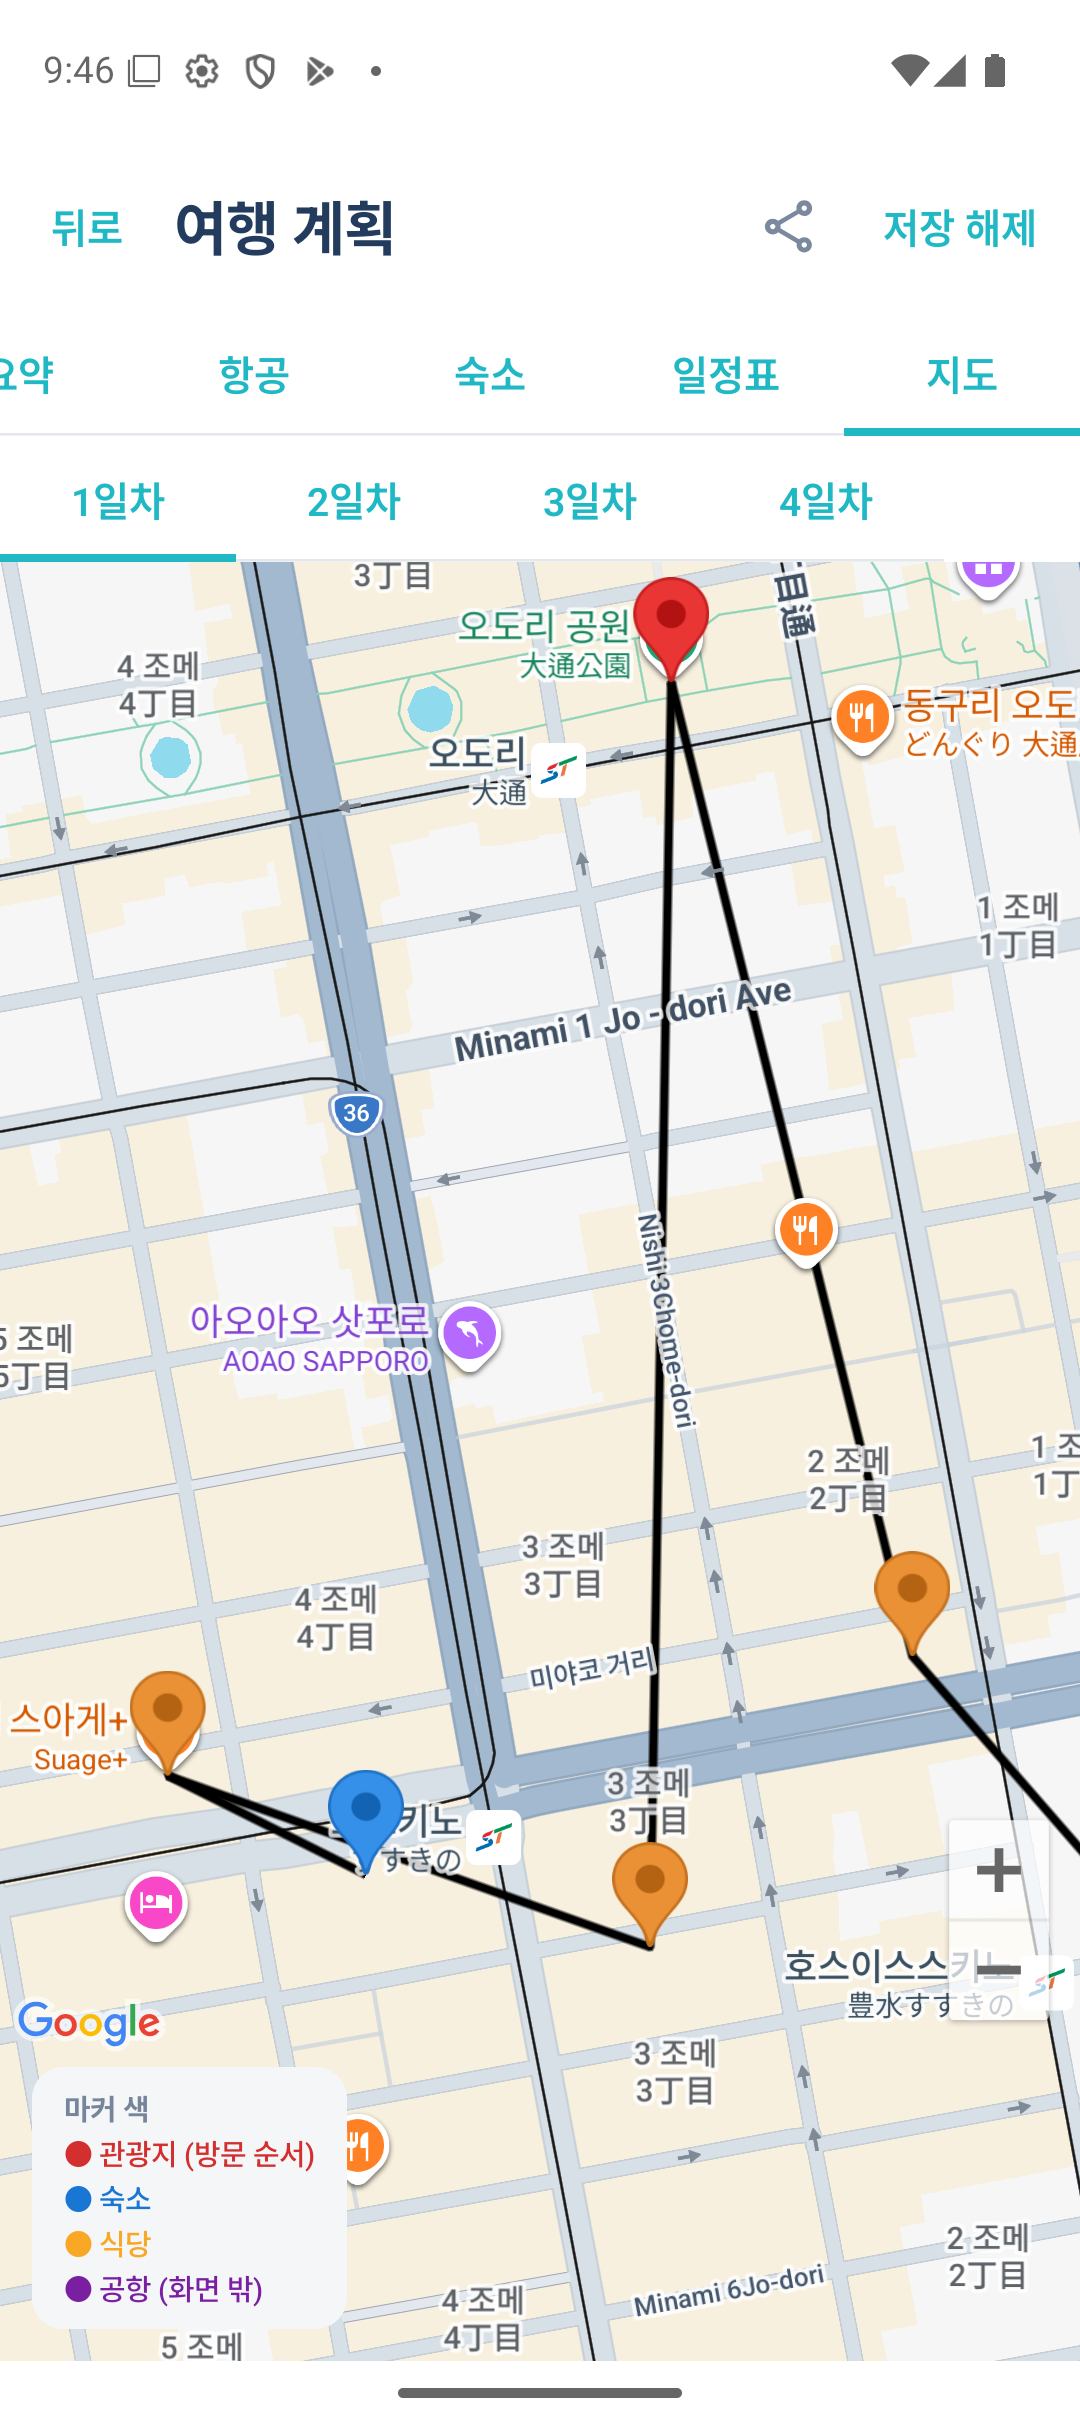
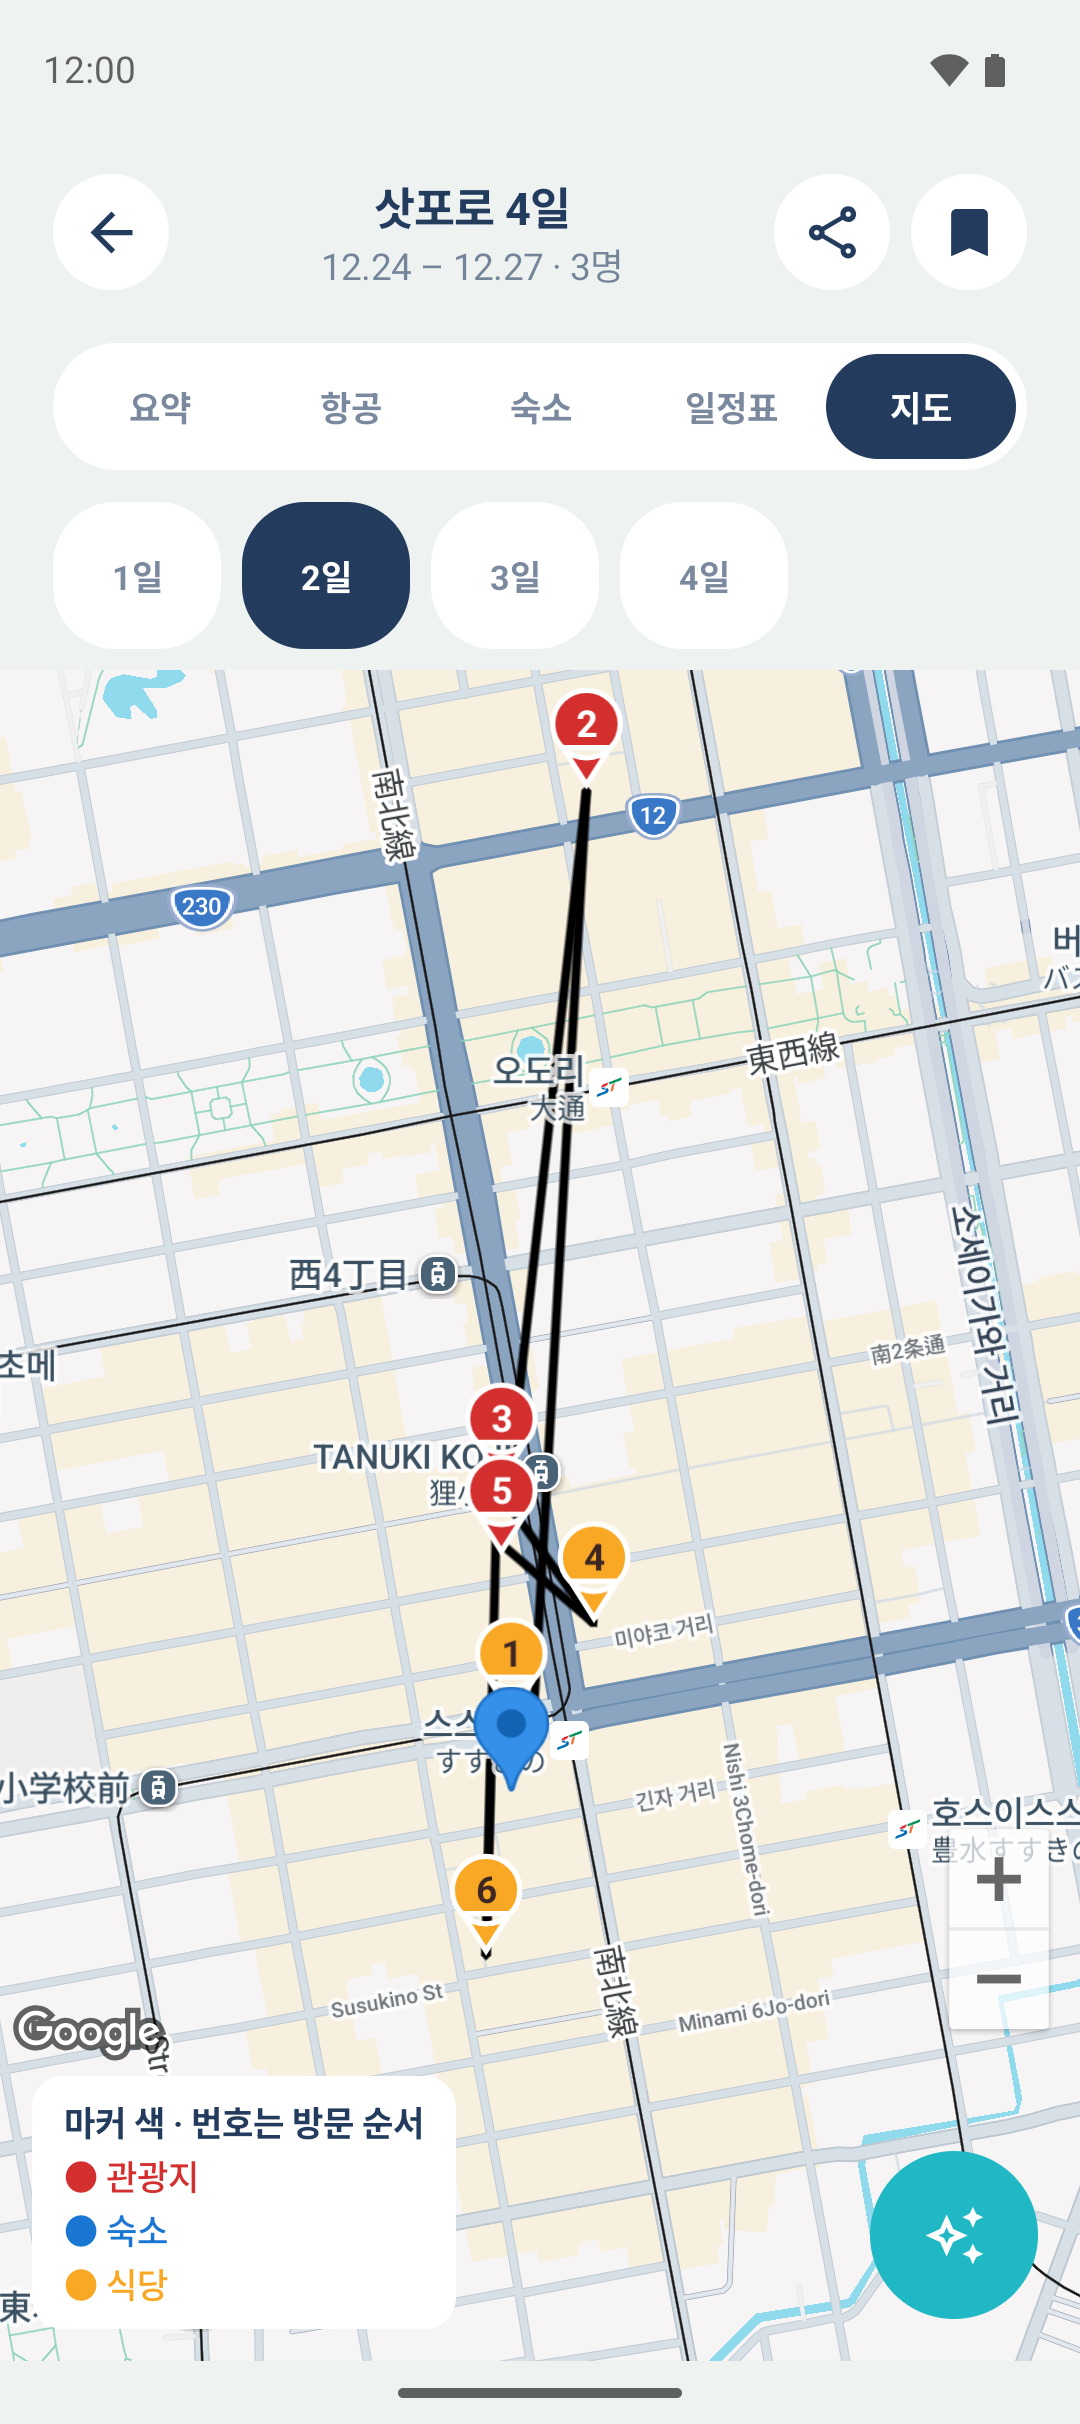
docs: README 스크린샷 다시 촬영(⑫ 화면) — 로그인·홈·검토 카드·일정표 날씨·번호 지도·AI 도우미 미리보기
- 말로 고치기 칸을 AI 도우미 미리보기(ai-helper.png)로 바꾸고, 지도 칸에 "방문 순서 번호"
- 상태 표시줄 데모 모드(12:00), 날씨는 디버그 weather_shift 53으로 실제 예보를 옮겨 붙여 촬영(촬영 뒤 0)

diff --git a/docs/screenshots/README.md b/docs/screenshots/README.md
@@ -7,15 +7,16 @@
 |---|---|
 | `icon.png` | 런처 홈 화면의 앱 아이콘 (독 오른쪽) |
 | `splash.png` | 시작 화면 — 흰 배경에 로고 일러스트 |
-| `login.png` | 로그인 — 흰 배경, 워드마크 + 소개 문구 |
-| `home.png` | 홈 — 닉네임 인사, 다가오는 여행 D-day 카드, 최근 일정, FAB |
+| `login.png` | 로그인 — 민트그레이 바탕, 워드마크 + 소개 문구, pill 버튼 |
+| `home.png` | 홈 — 인사말 + "다음 여행" 히어로(D-day·기간), 최근 일정 2열, 떠 있는 pill 탭바 |
 | `settings.png` | 설정 — 계정·언어·알림·접근성 |
 | `plan-summary.png` | 결과 화면 요약 탭 |
 | `plan-timeline-photos.png` | 일정표 — 설정에서 "장소 사진 표시"를 켠 상태 |
-| `plan-review.png` | 요약 탭 — 일정 검토 카드를 펼친 상태(비 오는 날 실외 관광지) |
+| `plan-review.png` | 요약 탭 — 일정 검토 카드를 펼친 상태(비 오는 날 실외 관광지 2건, AI 설명) |
 | `timeline-weather.png` | 일정표 — 날짜 칩 날씨 아이콘과 갱신 시각·출처 줄 |
-| `map.png` | 지도 탭 — 숙소 → 일정표 순서 → 숙소 경로선 |
-| `text-edit.png` | 말로 일정 고치기 — "점심 라멘 말고"로 점심이 수프카레로 바뀐 직후 |
+| `map.png` | 지도 탭 — 일정표 순서 번호 핀(관광지 빨강·식당 주황), 숙소 → 순서대로 → 숙소 경로선 |
+| `text-edit.png` | (옛 화면) 말로 일정 고치기 — "점심 라멘 말고"로 점심이 바뀐 직후 |
+| `ai-helper.png` | AI 도우미 — "오후 하나 빼줘" 미리보기(빼기 1건), 적용 전 |
 | `en-input.png` | 영어 — 입력 화면 (금액이 달러로 환산된다) |
 | `en-plan-summary.png` | 영어 — 결과 화면 요약 탭 |
 | `en-trips.png` | 영어 — 여행 탭 |
@@ -23,7 +24,8 @@
 앱 언어는 설정에서 바꾼다. `en-`으로 시작하는 셋은 영어로 바꾼 뒤 찍었다 —
 글자뿐 아니라 도시·나라·항공사 이름과 금액 표기까지 언어를 따라간다.
 
-**찍은 환경**: 에뮬레이터 Pixel 9 / API 36.1(Android 16) / 1080×2424,
+**찍은 환경**: 에뮬레이터 Readytogo_Shot / 1080×2424, 상태 표시줄 데모 모드(12:00),
+날씨는 디버그 `weather_shift 53`으로 실제 예보를 여행 날짜에 옮겨 붙임(11/2 촬영),
 글자 크기 보통, 고대비 끔.
 
 접근성 설정을 켠 상태의 화면이 필요하면 설정에서 바꾸고 다시 찍는다 —

diff --git a/README.md b/README.md
@@ -12,9 +12,9 @@
 |---|---|---|
 | ![로그인](docs/screenshots/login.png) | ![홈](docs/screenshots/home.png) | ![요약](docs/screenshots/plan-review.png) |
 
-| 일정표 + 날씨 | 지도 | 말로 일정 고치기 |
+| 일정표 + 날씨 | 지도 (방문 순서 번호) | AI 도우미 미리보기 |
 |---|---|---|
-| ![일정표](docs/screenshots/timeline-weather.png) | ![지도](docs/screenshots/map.png) | ![말로 고치기](docs/screenshots/text-edit.png) |
+| ![일정표](docs/screenshots/timeline-weather.png) | ![지도](docs/screenshots/map.png) | ![AI 도우미](docs/screenshots/ai-helper.png) |
 
 ---
 
